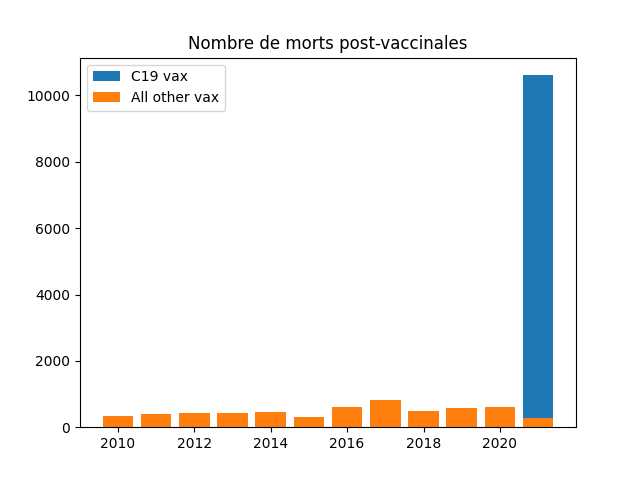
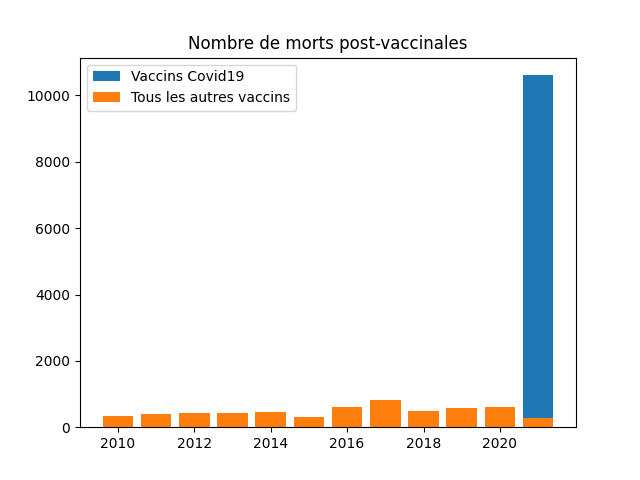
Add README

Changed region(s): [[0.1875, 0.125, 0.4688, 0.2188]]

diff --git a/run.py b/run.py
@@ -320,8 +320,8 @@ def plot_reactions_by_year_c19(severe=False, death=False):
         res = {}
         for is_c19_vax, year, nb in rows:
             res.setdefault(bool(is_c19_vax), {})[year] = nb
-        plt.bar(res[True].keys(), [a+b for a, b in zip(res[False].values(), res[True].values())], label="C19 vax")
-        plt.bar(res[False].keys(), res[False].values(), label="All other vax")
+        plt.bar(res[True].keys(), [a+b for a, b in zip(res[False].values(), res[True].values())], label="Vaccins Covid19")
+        plt.bar(res[False].keys(), res[False].values(), label="Tous les autres vaccins")
         plt.legend()
         fname = 'reactions_by_year_c19.png'
         if severe:

diff --git a/README.md b/README.md
@@ -1,0 +1,24 @@
+# c19vaxcheck
+
+Programme pour extraire les données de la pharmacovigilance [EudraVigilance](https://www.adrreports.eu/en/search_subst.html), et pouvoir les examiner.
+
+## Results: Réactions vaccins Covid19 VS vaccins non-Covid19
+
+Ces résultats sont des cumuls de toutes les réactions sévères survenues suite à TOUS les vaccins (Covid19 VS les autres), stockées dans la bases de données d'EudraVigilance.
+
+On peut observer une amplitude bien plus importante pour les vaccins Covid19, suggérant une toxicité bien plus importante que les vaccins traditionnels.
+
+![Réactions sévères post-vaccinales](results/reactions_by_year_c19_severe.png)
+
+![Morts post-vaccinales](results/reactions_by_year_c19_death.png)
+
+## How to use
+
+* Install [Python](https://www.python.org)
+* Install [Firefox](https://www.mozilla.org/fr/firefox/new/)
+* Install [geckodriver](https://github.com/mozilla/geckodriver/releases)
+
+```
+pip install -r requirements.txt
+./run.py all
+```
